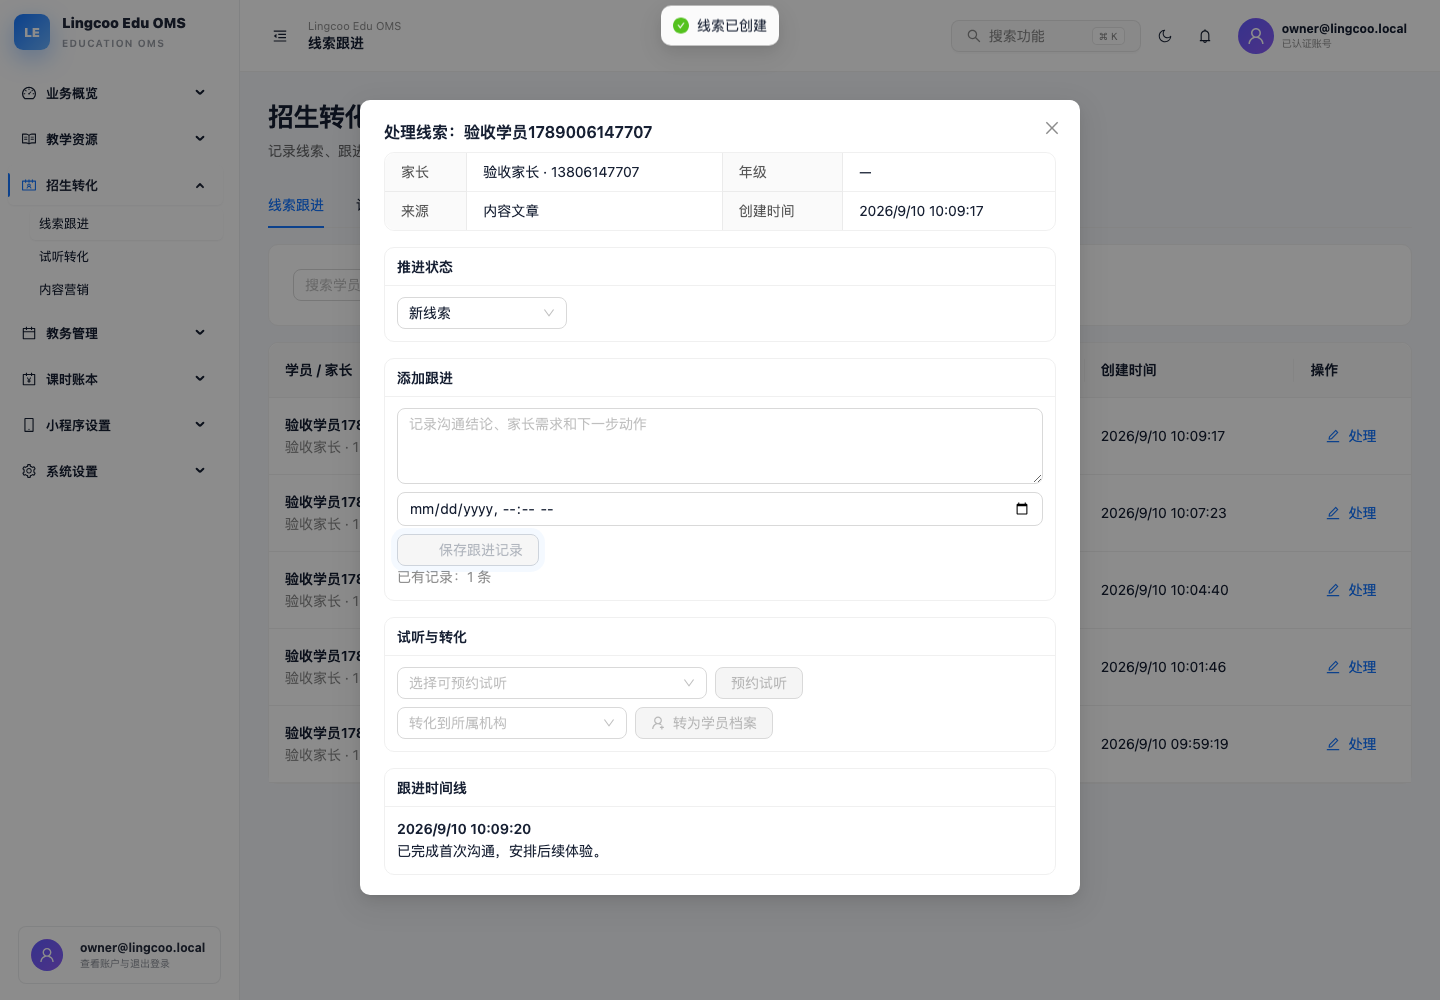
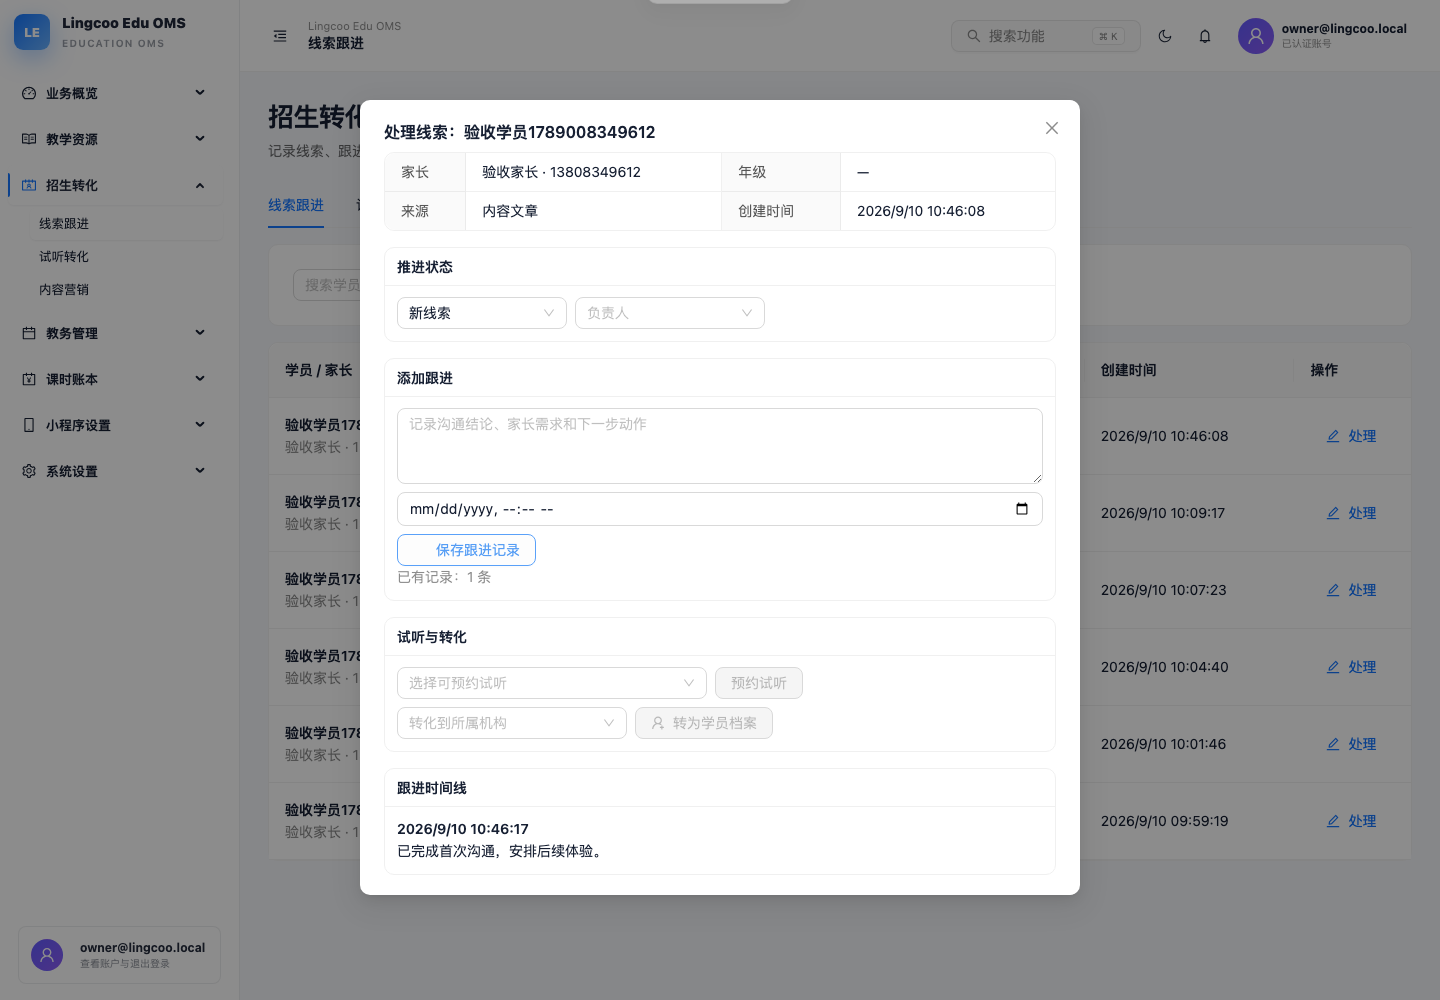
feat: complete admissions field context

diff --git a/apps/admin/src/features/admissions/AdmissionsPage.tsx b/apps/admin/src/features/admissions/AdmissionsPage.tsx
@@ -6,6 +6,7 @@ import {
   UserAddOutlined,
 } from '@ant-design/icons';
 import type {
+  AccessUser,
   AdmissionLead,
   AdmissionLeadStatus,
   AdmissionTrialSession,
@@ -34,7 +35,10 @@ import { useState } from 'react';
 import { AsyncState } from '../../components/AsyncState';
 import { PageContainer } from '../../components/PageContainer';
 import { useCan } from '../access/PermissionContext';
+import { useUsers } from '../access/hooks';
 import { useInstitutions } from '../organization/hooks';
+import { useTeachers } from '../people/hooks';
+import { useCampuses, useCourses } from '../teaching-resources/hooks';
 import {
   useAddAdmissionFollowUp,
   useAdmissionFollowUps,
@@ -107,6 +111,7 @@ function LeadsPanel() {
   const [createOpen, setCreateOpen] = useState(false);
   const [selected, setSelected] = useState<AdmissionLead | null>(null);
   const leads = useAdmissionLeads({ page: 1, pageSize: 100, search: search || undefined, status });
+  const users = useUsers({ page: 1, pageSize: 100, status: 'active' });
   const create = useCreateAdmissionLead();
 
   async function submit(values: CreateAdmissionLeadRequest) {
@@ -226,6 +231,7 @@ function LeadsPanel() {
         onCancel={() => setCreateOpen(false)}
       >
         <LeadForm
+          users={users.data?.items ?? []}
           loading={create.isPending}
           onCancel={() => setCreateOpen(false)}
           onSubmit={submit}
@@ -236,10 +242,12 @@ function LeadsPanel() {
 }
 
 function LeadForm({
+  users,
   loading,
   onCancel,
   onSubmit,
 }: {
+  users: readonly AccessUser[];
   loading: boolean;
   onCancel: () => void;
   onSubmit: (values: CreateAdmissionLeadRequest) => Promise<void>;
@@ -282,6 +290,15 @@ function LeadForm({
       <Form.Item name="sourceDetail" label="来源补充">
         <Input.TextArea rows={2} />
       </Form.Item>
+      <Form.Item name="ownerUserId" label="负责人">
+        <Select
+          allowClear
+          options={users.map((user) => ({
+            value: user.id,
+            label: user.displayName || user.email || user.phone || user.id,
+          }))}
+        />
+      </Form.Item>
       <Form.Item>
         <Space>
           <Button onClick={onCancel}>取消</Button>
@@ -306,6 +323,7 @@ function LeadModal({
   const { message } = App.useApp();
   const canManage = useCan('education.leads.manage');
   const institutions = useInstitutions({ page: 1, pageSize: 100, status: 'active' });
+  const users = useUsers({ page: 1, pageSize: 100, status: 'active' });
   const trials = useAdmissionTrials({ page: 1, pageSize: 100, status: 'open' });
   const followUps = useAdmissionFollowUps(lead?.id ?? null);
   const update = useUpdateAdmissionLead();
@@ -319,13 +337,13 @@ function LeadModal({
 
   if (!lead) return null;
   const currentLead = lead;
-  async function changeStatus(value: AdmissionLeadStatus) {
+  async function updateLead(input: { status?: AdmissionLeadStatus; ownerUserId?: string | null }) {
     try {
       await update.mutateAsync({
         id: currentLead.id,
-        input: { expectedRevision: currentLead.revision, status: value },
+        input: { expectedRevision: currentLead.revision, ...input },
       });
-      message.success('线索状态已更新');
+      message.success('线索信息已更新');
     } catch (error) {
       message.error(errorMessage(error));
     }
@@ -397,7 +415,19 @@ function LeadModal({
               value,
               label: item.label,
             }))}
-            onChange={(value) => void changeStatus(value)}
+            onChange={(value) => void updateLead({ status: value })}
+          />
+          <Select
+            allowClear
+            placeholder="负责人"
+            value={lead.ownerUserId ?? undefined}
+            disabled={!canManage || update.isPending}
+            style={{ width: 190 }}
+            options={(users.data?.items ?? []).map((user) => ({
+              value: user.id,
+              label: user.displayName || user.email || user.phone || user.id,
+            }))}
+            onChange={(value) => void updateLead({ ownerUserId: value ?? null })}
           />
           {lead.convertedStudentId && <Tag color="success">已生成学员档案</Tag>}
         </Space>
@@ -657,6 +687,10 @@ function TrialFormModal({
   onSubmit: (values: CreateAdmissionTrialRequest) => Promise<void>;
 }) {
   const [form] = Form.useForm<CreateAdmissionTrialRequest>();
+  const institutionId = Form.useWatch('institutionId', form) ?? null;
+  const campuses = useCampuses({ page: 1, pageSize: 100, status: 'active' });
+  const courses = useCourses(institutionId, { page: 1, pageSize: 100, status: 'active' });
+  const teachers = useTeachers(institutionId, Boolean(institutionId));
   return (
     <Modal title="新增试听场次" open={open} footer={null} destroyOnClose onCancel={onCancel}>
       <Form form={form} layout="vertical" onFinish={onSubmit}>
@@ -666,6 +700,33 @@ function TrialFormModal({
           rules={[{ required: true, message: '请选择机构' }]}
         >
           <Select options={institutions.map((item) => ({ value: item.id, label: item.name }))} />
+        </Form.Item>
+        <Form.Item name="campusId" label="校区（可选）">
+          <Select
+            allowClear
+            options={(campuses.data?.items ?? []).map((item) => ({
+              value: item.id,
+              label: item.name,
+            }))}
+          />
+        </Form.Item>
+        <Form.Item name="courseId" label="课程（可选）">
+          <Select
+            allowClear
+            options={(courses.data?.items ?? []).map((item) => ({
+              value: item.id,
+              label: item.name,
+            }))}
+          />
+        </Form.Item>
+        <Form.Item name="teacherId" label="教师（可选）">
+          <Select
+            allowClear
+            options={(teachers.data?.items ?? []).map((item) => ({
+              value: item.id,
+              label: item.fullName,
+            }))}
+          />
         </Form.Item>
         <Form.Item
           name="title"

diff --git a/test/preview/admissions-content.spec.ts b/test/preview/admissions-content.spec.ts
@@ -58,6 +58,13 @@ test('招生转化和内容营销后台流程可用', async ({ page }) => {
   await expect(page.getByRole('heading', { name: '招生转化', exact: true })).toBeVisible();
   await expect(page.getByRole('tab', { name: '试听转化', selected: true })).toBeVisible();
   await expect(page.getByRole('button', { name: '新增试听场次' })).toBeVisible();
+  await page.getByRole('button', { name: '新增试听场次' }).click();
+  const trialDialog = page.getByRole('dialog', { name: '新增试听场次' });
+  await expect(trialDialog.getByLabel('所属机构')).toBeVisible();
+  await expect(trialDialog.getByLabel('校区（可选）')).toBeVisible();
+  await expect(trialDialog.getByLabel('课程（可选）')).toBeVisible();
+  await expect(trialDialog.getByLabel('教师（可选）')).toBeVisible();
+  await trialDialog.getByRole('button', { name: /取\s*消/ }).click();
   await page.screenshot({
     path: 'docs/acceptance/admissions/02-trial-conversion.png',
     fullPage: true,

diff --git a/apps/admin/src/features/content/ContentPage.tsx b/apps/admin/src/features/content/ContentPage.tsx
@@ -314,6 +314,9 @@ function ContentFormModal({
         <Form.Item name="coverUrl" label="封面地址">
           <Input />
         </Form.Item>
+        <Form.Item name="coverThumbUrl" label="缩略图地址">
+          <Input />
+        </Form.Item>
         <Form.Item name="authorName" label="作者">
           <Input />
         </Form.Item>
